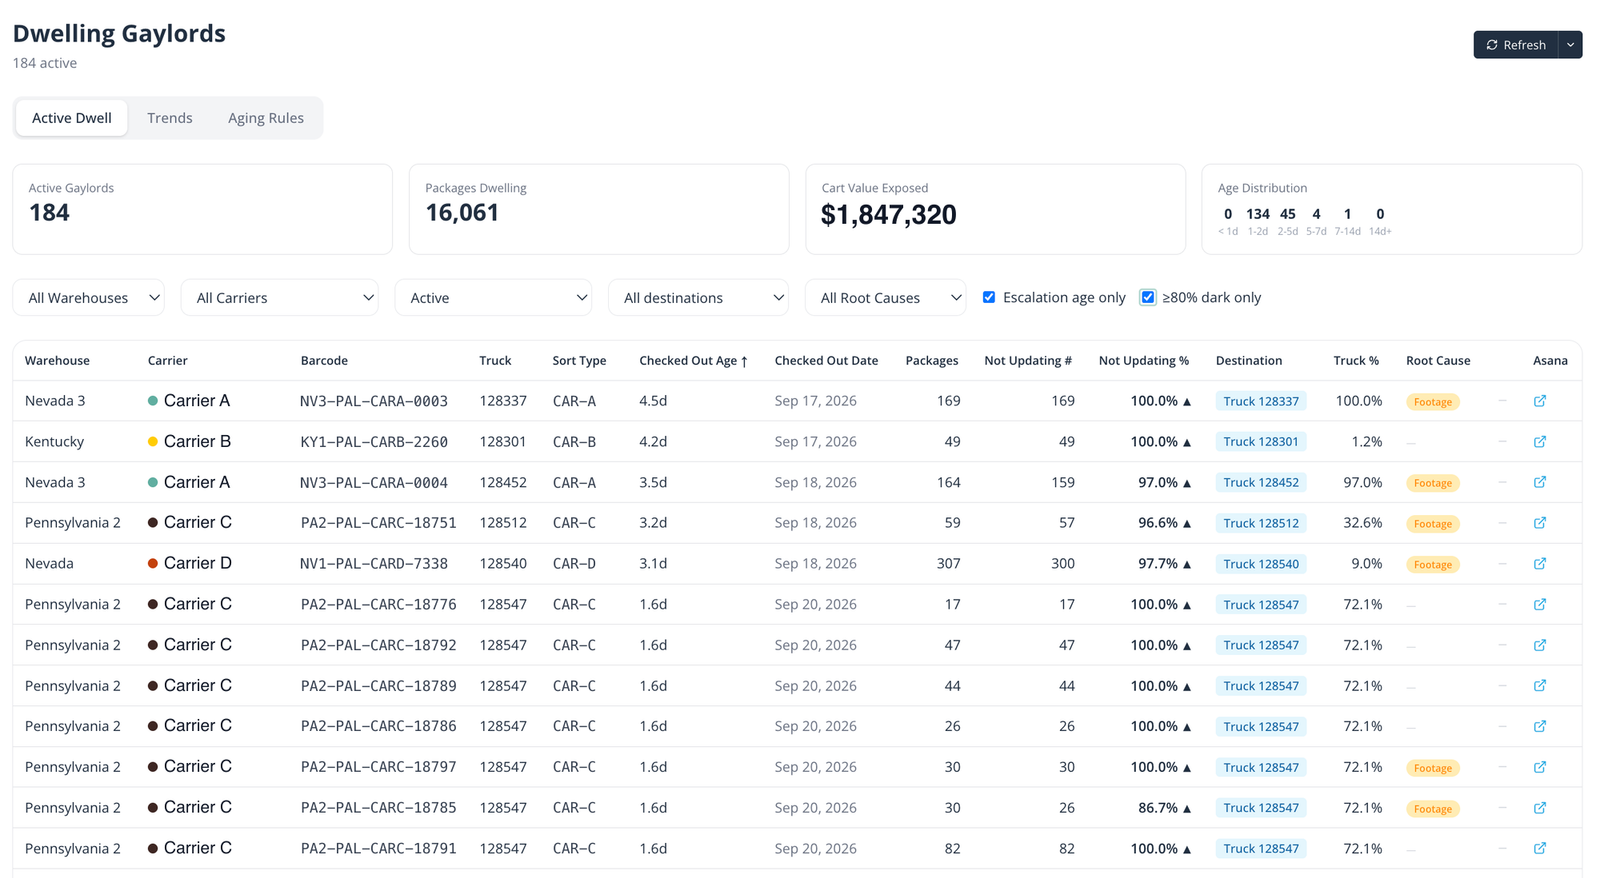
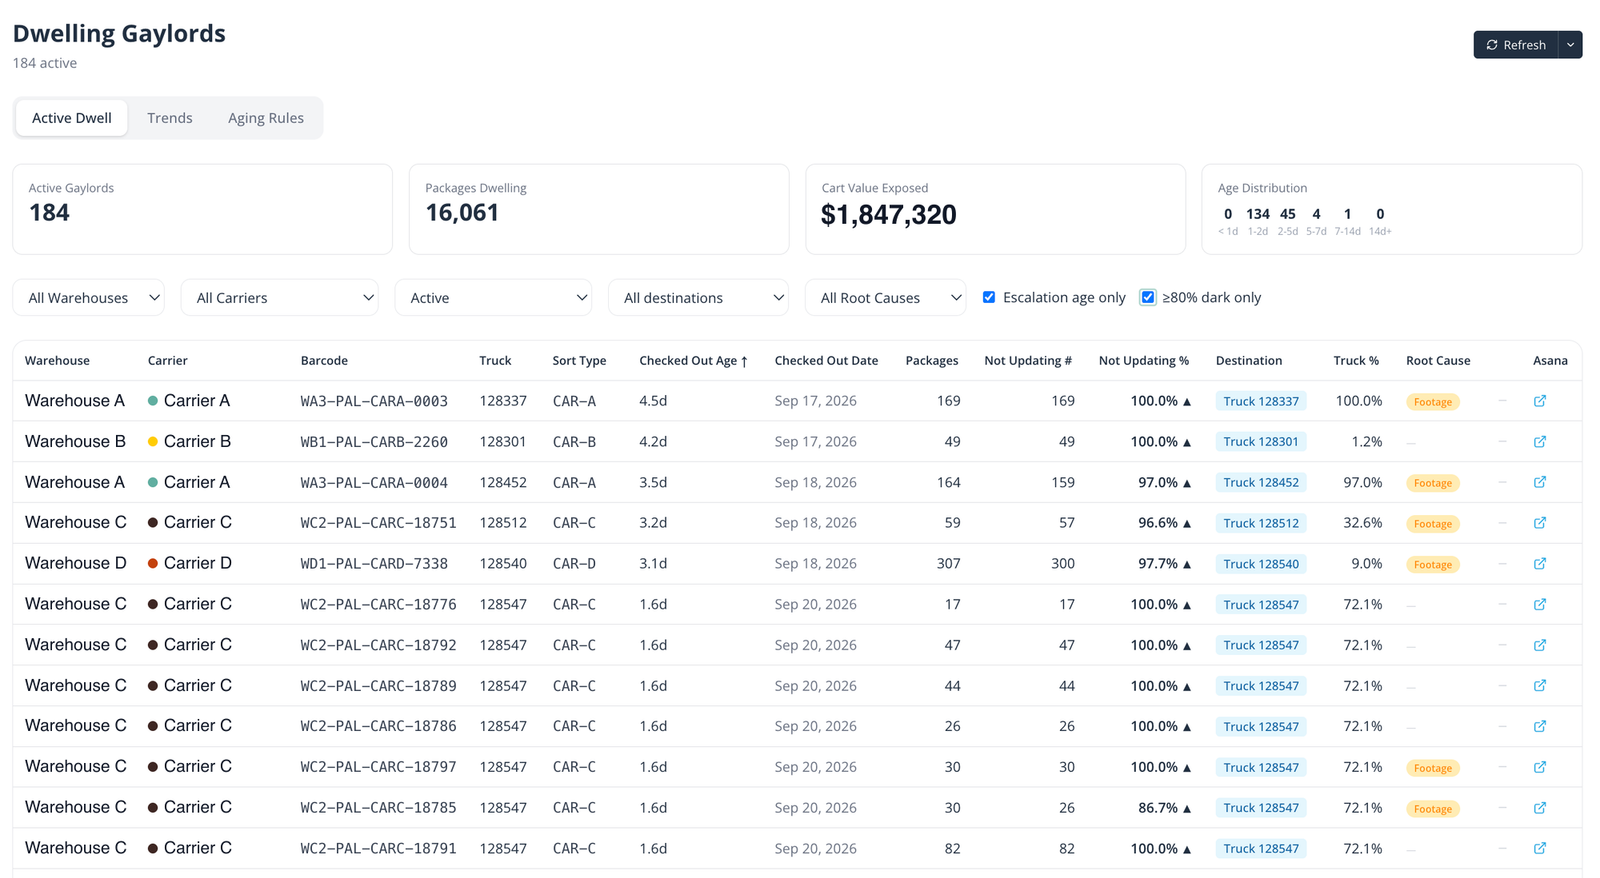
Close the last accuracy and disclosure items
Hours are now a range, 2,200 to 4,400 a year, with the gaylord review
named as the difference and the three eras of tooling explained, because
the old process only opened a task once a gaylord crossed its tier
threshold. Margin bridge runs are weekly plus month over month. The
constraint is where engineering time goes, not that none existed.

The bridge image carries an ILLUSTRATIVE FIGURES stamp so it cannot
travel without its caption, warehouse names are masked in the dwell view,
and the Dr. Squatch page says plainly that the published figure measures
the partnership rather than this project.

diff --git a/lib/highlights.ts b/lib/highlights.ts
@@ -36,7 +36,7 @@ export const highlights: Highlight[] = [
     label: "Hours of manual work eliminated a year",
     href: "/case-studies/internal-apps",
     detail:
-      "Three production internal apps, built and shipped as a non-engineer, that centralized the Transportation team's operations, carrier management, and financial reporting.",
+      "Three production internal apps, built and shipped as a non-engineer, that centralized the Transportation team's operations, carrier management, and financial reporting. The count behind the hours is bottom-up and ranges from 2,200 to 4,400 a year, and the case study shows the arithmetic.",
   },
   {
     figure: "50% → 90%+",
